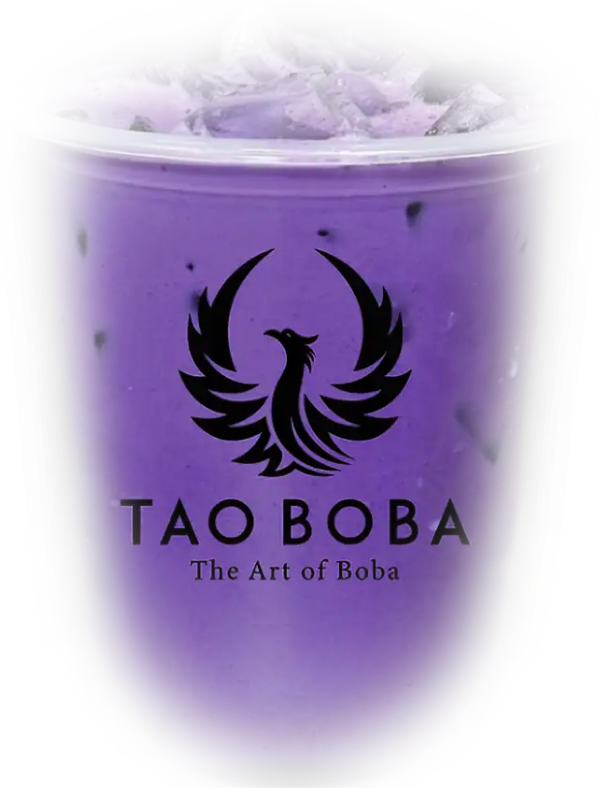
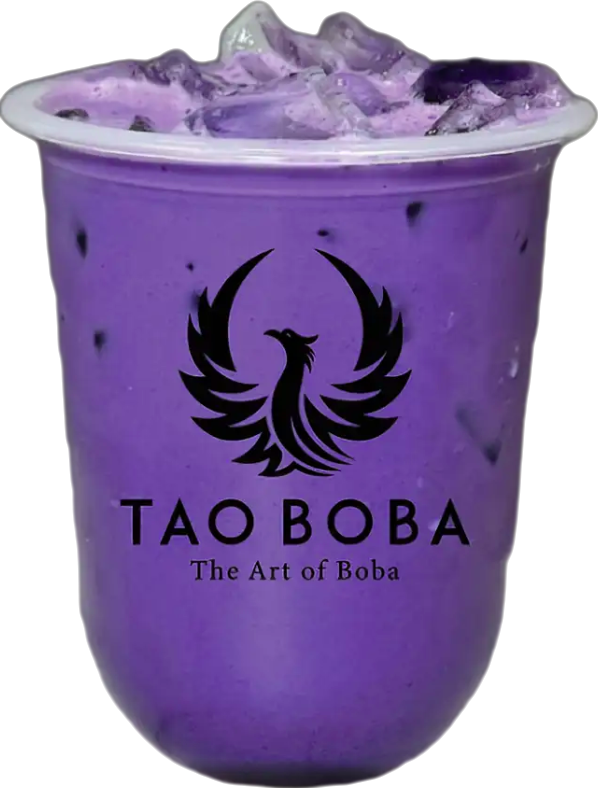
Update architecture documentation and refresh boba menu assets
Replit-Commit-Author: Agent

diff --git a/artifacts/tao-boba/src/index.css b/artifacts/tao-boba/src/index.css
@@ -326,11 +326,28 @@ p     { margin: 0 }
   max-width: none !important;
   object-fit: contain;
   margin: 0 auto;
-  /* Fogged edges baked into PNG alpha; tiny drop-shadow seals the outermost pixel */
-  filter:
-    drop-shadow(0 0 6px rgba(246,241,232,.95))
-    drop-shadow(0 0 18px rgba(246,241,232,.55))
-    contrast(1.06) saturate(1.12);
+  filter: contrast(1.06) saturate(1.12);
+  /* Consistent elliptical vignette — fades ALL edges uniformly across every cup.
+     Opaque at centre, gradual dissolve from 55% → transparent at 90%.
+     This is the primary edge-blending mechanism (replaces per-PNG erosion). */
+  mask-image: radial-gradient(
+    ellipse 86% 90% at 50% 52%,
+    black              0%,
+    black             52%,
+    rgba(0,0,0,0.85)  63%,
+    rgba(0,0,0,0.55)  73%,
+    rgba(0,0,0,0.20)  83%,
+    transparent       92%
+  );
+  -webkit-mask-image: radial-gradient(
+    ellipse 86% 90% at 50% 52%,
+    black              0%,
+    black             52%,
+    rgba(0,0,0,0.85)  63%,
+    rgba(0,0,0,0.55)  73%,
+    rgba(0,0,0,0.20)  83%,
+    transparent       92%
+  );
   image-rendering: -webkit-optimize-contrast;
 }
 
@@ -911,10 +928,25 @@ p     { margin: 0 }
     max-height: 505px;
     object-fit: contain;
     margin: 0 auto;
-    filter:
-      drop-shadow(0 0 6px rgba(246,241,232,.95))
-      drop-shadow(0 0 18px rgba(246,241,232,.55))
-      contrast(1.04) saturate(1.08);
+    filter: contrast(1.04) saturate(1.08);
+    mask-image: radial-gradient(
+      ellipse 86% 90% at 50% 52%,
+      black              0%,
+      black             52%,
+      rgba(0,0,0,0.85)  63%,
+      rgba(0,0,0,0.55)  73%,
+      rgba(0,0,0,0.20)  83%,
+      transparent       92%
+    );
+    -webkit-mask-image: radial-gradient(
+      ellipse 86% 90% at 50% 52%,
+      black              0%,
+      black             52%,
+      rgba(0,0,0,0.85)  63%,
+      rgba(0,0,0,0.55)  73%,
+      rgba(0,0,0,0.20)  83%,
+      transparent       92%
+    );
   }
 
   /* Clean reference composition */

diff --git a/.agents/memory/tao-boba-architecture.md b/.agents/memory/tao-boba-architecture.md
@@ -20,23 +20,32 @@ description: Core decisions for the Tao Boba React/Vite homepage — cup engine,
 - 130ms fade-out window before DOM update; stale-capture guard: `if (currentIdx.current !== captured) return`
 - First load (currentIdx === -1) skips animation
 
-## Cup image edge treatment (CSS + PNG pipeline)
-- CSS filter on `.cup-wrap img`: two tiny `drop-shadow` in page cream color (6px + 18px) + contrast + saturate
-- **No glow layer, no duplicate image** — previous attempts with blurred duplicate caused white blob
-- Edge quality comes from ImageMagick pre-processing on the PNG files
+## Cup image edge treatment — FINAL approach (do not add more erosion passes)
 
-## PNG edge pipeline (applied in sequence, cumulative)
+### CSS (primary, consistent across all 5 cups)
+Applied to `.cup-wrap img` in both base and mobile breakpoint rules:
+```css
+mask-image: radial-gradient(
+  ellipse 86% 90% at 50% 52%,
+  black 0%, black 52%, rgba(0,0,0,0.85) 63%,
+  rgba(0,0,0,0.55) 73%, rgba(0,0,0,0.20) 83%, transparent 92%
+);
+-webkit-mask-image: /* same */;
+```
+Fully opaque centre → gradual dissolve → transparent at edge. Identical for all 5. Tune only these CSS values if more/less fade is needed — do NOT stack more ImageMagick erosion passes.
+
+### PNG pipeline (applied once from clean source — do NOT stack more passes)
 1. AI background removal
-2. `magick -channel Alpha -blur 0x2.0 -level 12%,88%` — initial alpha smoothing
-3. `magick ( +clone -channel Alpha -separate -morphology Dilate Disk:1.5 -blur 0x2.5 -level 3%,97% ) -alpha off -compose CopyOpacity -composite` — edge feathering outward
-4. `magick -channel Alpha -morphology Erode Disk:10 -blur 0x10 +channel` — fog pass 1
-5. `magick -channel Alpha -morphology Erode Disk:22 -blur 0x20 +channel` — fog pass 2
-6. `magick -channel Alpha -morphology Erode Disk:40 -blur 0x35 +channel` — fog pass 3
-7. **Pre-blend toward cream**: `magick cup.png ( +clone -background '#f6f1e8' -flatten ) ( -clone 0 -alpha extract ) -compose CopyOpacity -composite output.png`
+2. Initial alpha feathering (Dilate Disk:1.5 → blur 0x2.5 → level 3%,97% → CopyOpacity)
+3. **Cream pre-blend**: `magick cup.png ( +clone -background '#f6f1e8' -flatten ) ( -clone 0 -alpha extract ) -compose CopyOpacity -composite output.png`
+   - Shifts semi-transparent edge pixel *colours* toward cream so they're invisible on cream background
 
-**Why step 7 is critical**: Alpha erosion leaves semi-transparent dark pixels at edges. On a light background they show as a dark ghost fringe. Pre-blending shifts edge pixel *colours* toward the background cream, so they become invisible when rendered — no dark halo.
+**Why cream pre-blend matters**: alpha erosion leaves semi-transparent dark pixels at edges. On a light background they show as a dark ghost fringe. Pre-blending shifts edge colours toward cream so transparent pixels are already cream-coloured → no dark halo.
 
-**Rule**: after any alpha erosion on dark cups, always run the pre-blend step with the actual stage/page background color.
+**WARNING — stacking erosion passes**: applying multiple rounds of `-morphology Erode Disk:N -blur 0xN` destroyed the files (alpha mean dropped from ~72% to ~48%). Restoring from git commit `742d2b9` was required. The CSS mask handles all visible edge fading — PNG files should only have the cream pre-blend applied.
+
+### Healthy source state
+Git commit `742d2b9` has the cups at ~70-75% alpha mean — the best available state if files get over-processed again.
 
 ## Active cup files
 - `taro-boba-smooth.png` — Ube Latte (tint: #f0eaf7, tone: #6b3fa0)
